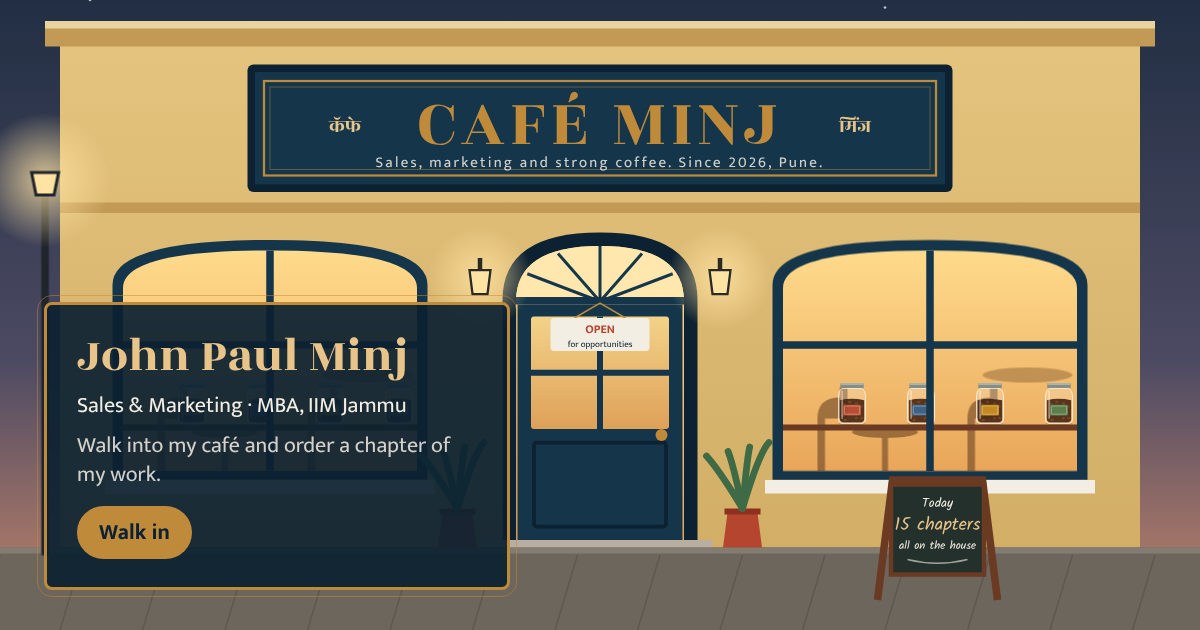
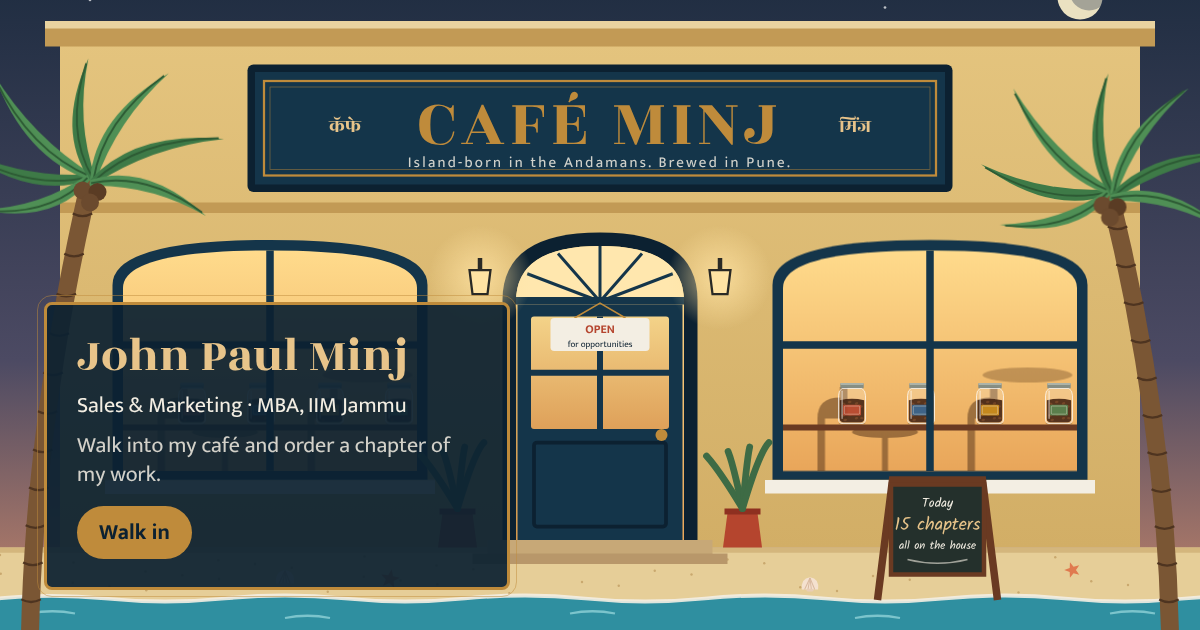
Andaman beachfront: sand, sea and surf, coconut palms, moon; sea window to Port Blair, conch and coconut on the counter
Claude-Session: https://claude.ai/code/session_01M7PDTuVyJJ1kuWZYfUFzFc

diff --git a/js/art.js b/js/art.js
@@ -118,6 +118,25 @@ window.ART = (function () {
       + line(name, 81, t1 + 700);
   }
 
+  /* ---------- island bits: palms, sea, shells ---------- */
+  function palm(x, dir, top = 330, scale = 1) {
+    const tx = x + dir * 80, ty = top;
+    const pt = t => [(1 - t) ** 2 * x + 2 * (1 - t) * t * (x + dir * 6) + t * t * tx, (1 - t) ** 2 * 905 + 2 * (1 - t) * t * 620 + t * t * ty];
+    const rings = Array.from({ length: 11 }, (_, i) => { const [px, py] = pt(0.08 + i * 0.085); return `<path d="M${px - 13},${py} q13,7 26,0" stroke="#4E3420" stroke-width="3" fill="none"/>`; }).join("");
+    const frond = (a, len, col) => `<g transform="translate(${tx},${ty}) rotate(${a}) scale(${scale})">
+        <path d="M0,0 Q${len * .45},-34 ${len},26 Q${len * .5},-6 0,8 Z" fill="${col}"/>
+        <path d="M2,4 Q${len * .45},-22 ${len - 6},22" stroke="#2D5A34" stroke-width="2.5" fill="none"/></g>`;
+    return `<g class="palm">
+      <path d="M${x},905 Q${x + dir * 6},620 ${tx},${ty}" stroke="#7A5634" stroke-width="24" fill="none" stroke-linecap="round"/>${rings}
+      ${[[-175, 175, "#3E7A47"], [-140, 190, "#4F8F55"], [-100, 160, "#3E7A47"], [-62, 175, "#4F8F55"], [-25, 185, "#3E7A47"], [8, 160, "#4F8F55"], [-205, 150, "#4F8F55"]]
+        .map(([a, l, c]) => frond(a, l, c)).join("")}
+      <circle cx="${tx - 10}" cy="${ty + 14}" r="12" fill="#6B4A2E"/><circle cx="${tx + 10}" cy="${ty + 16}" r="12" fill="#5A3C24"/><circle cx="${tx}" cy="${ty + 30}" r="12" fill="#6B4A2E"/>
+    </g>`;
+  }
+  const starfish = (x, y, r = 12, rot = 0) => `<path transform="translate(${x},${y}) rotate(${rot})" d="${Array.from({ length: 10 }, (_, i) => {
+    const a = (i * 36 - 90) * Math.PI / 180, rr = i % 2 ? r * .42 : r; return `${i ? "L" : "M"}${(Math.cos(a) * rr).toFixed(1)},${(Math.sin(a) * rr).toFixed(1)}`; }).join(" ")}Z" fill="#E07A4F"/>`;
+  const shell = (x, y, s = 1) => `<g transform="translate(${x},${y}) scale(${s})"><path d="M-12,0 Q-14,-16 0,-18 Q14,-16 12,0 Z" fill="#F4E1CF"/>${[-8, -3, 2, 7].map(dx => `<path d="M0,-17 L${dx},0" stroke="#D9B9A0" stroke-width="1.5"/>`).join("")}<rect x="-5" y="-1" width="10" height="4" rx="2" fill="#E8CDB7"/></g>`;
+
   function item(art, opts = {}) {
     return (items[art] || items.espresso)(opts);
   }
@@ -222,6 +241,7 @@ window.ART = (function () {
         <linearGradient id="wall" x1="0" y1="0" x2="0" y2="1"><stop offset="0" stop-color="#9DC2AE"/><stop offset="1" stop-color="#B4D3C1"/></linearGradient>
         <linearGradient id="marble" x1="0" y1="0" x2="1" y2="0"><stop offset="0" stop-color="#EEEAE2"/><stop offset=".5" stop-color="#F7F4EE"/><stop offset="1" stop-color="#E6E1D7"/></linearGradient>
         <linearGradient id="chrome" x1="0" y1="0" x2="1" y2="0"><stop offset="0" stop-color="#8E979C"/><stop offset=".35" stop-color="#E8ECEE"/><stop offset=".6" stop-color="#B9C1C5"/><stop offset="1" stop-color="#7C858A"/></linearGradient>
+        <linearGradient id="dusk" x1="0" y1="0" x2="0" y2="1"><stop offset="0" stop-color="#F7C9A0"/><stop offset="1" stop-color="#F0956F"/></linearGradient>
         <pattern id="checker" width="80" height="80" patternUnits="userSpaceOnUse"><rect width="80" height="80" fill="#EDE8DD"/><rect width="40" height="40" fill="#1B2A36"/><rect x="40" y="40" width="40" height="40" fill="#1B2A36"/></pattern>
       </defs>
 
@@ -274,6 +294,27 @@ window.ART = (function () {
           <text x="1270" y="${210 + i * 34}" text-anchor="end" font-family="Mukta, sans-serif" font-size="15" fill="${C.goldSoft}">0.00</text></g>`).join("")}
       </g>
 
+      <!-- window onto the Andaman sea -->
+      <g id="sea-window">
+        <clipPath id="seaclip"><path d="M1364,346 L1364,196 Q1364,136 1445,136 Q1526,136 1526,196 L1526,346 Z"/></clipPath>
+        <path d="M1350,358 L1350,192 Q1350,120 1445,120 Q1540,120 1540,192 L1540,358 Z" fill="${C.teak}"/>
+        <g clip-path="url(#seaclip)">
+          <rect x="1360" y="130" width="170" height="220" fill="url(#dusk)"/>
+          <circle cx="1478" cy="262" r="24" fill="#FFE2A0"/>
+          <rect x="1360" y="262" width="170" height="90" fill="#2F8FA0"/>
+          <path d="M1458,272 l40,0 M1466,284 l24,0 M1472,296 l12,0" stroke="#FFE2A0" stroke-width="3" opacity=".8"/>
+          <path d="M1360,300 q20,-6 40,0 t40,0 t40,0 t40,0 t40,0" stroke="#7CC4CC" stroke-width="2" fill="none" opacity=".7"/>
+          <path d="M1400,258 l26,0 l-5,7 l-17,0 Z M1412,258 l0,-22 l11,20 Z" fill="#1B2A36"/>
+          <path d="M1370,350 Q1378,260 1408,214" stroke="#1B2A36" stroke-width="7" fill="none"/>
+          ${[-60, -20, 15, 160, 200].map(a => `<path transform="translate(1408,214) rotate(${a})" d="M0,0 Q30,-12 58,10 Q30,-2 0,4 Z" fill="#1B2A36"/>`).join("")}
+        </g>
+        <path d="M1445,136 L1445,346 M1364,262 L1526,262" stroke="${C.teak}" stroke-width="7"/>
+        <rect x="1340" y="352" width="210" height="10" rx="3" fill="${C.ivory}"/>
+        ${shell(1372, 352, .7)}${starfish(1520, 344, 9, 14)}
+        <rect x="1366" y="370" width="158" height="26" rx="4" fill="${C.gold}"/>
+        <text x="1445" y="389" text-anchor="middle" font-family="Mukta, sans-serif" font-weight="700" font-size="14" fill="${C.bottleInk}">Port Blair, Andamans</text>
+      </g>
+
       <!-- the barista (behind the counter) -->
       ${barista(initials, person.baristaImage)}
 
@@ -285,6 +326,19 @@ window.ART = (function () {
       <rect x="0" y="590" width="1600" height="6" fill="#000" opacity=".25"/>
       <rect x="0" y="740" width="1600" height="60" fill="url(#checker)"/>
       <rect x="0" y="752" width="1600" height="7" rx="3" fill="${C.gold}"/>
+
+      <!-- island things on the counter: a conch and a coconut -->
+      <g transform="translate(80,560)">
+        <path d="M-34,0 Q-44,-22 -20,-34 Q6,-44 28,-30 Q40,-20 34,-6 Q30,2 18,0 Z" fill="#F2D6C4"/>
+        <path d="M-20,-34 l-6,-12 M-4,-40 l0,-13 M12,-38 l6,-11" stroke="#E6BFA8" stroke-width="5" stroke-linecap="round"/>
+        <path d="M-2,-4 Q14,-22 30,-12 Q24,-2 14,0 Z" fill="#E59A8A"/>
+        <path d="M-30,-6 Q-16,-20 -2,-14" stroke="#D9B39C" stroke-width="2" fill="none"/>
+      </g>
+      <g transform="translate(140,560)">
+        <ellipse cx="0" cy="-18" rx="22" ry="20" fill="#6B4A2E"/><ellipse cx="0" cy="-34" rx="17" ry="5" fill="#F3EEE3"/>
+        <path d="M-7,-36 L6,-66" stroke="${C.chili}" stroke-width="4" stroke-linecap="round"/><path d="M6,-66 l9,-4" stroke="${C.chili}" stroke-width="4" stroke-linecap="round"/>
+        <path d="M-12,-24 q4,8 0,16" stroke="#4E3420" stroke-width="2" fill="none"/>
+      </g>
 
       <!-- pastry case -->
       <g id="pastry-case" class="hot" data-act="shelf:pastry-case">
@@ -360,6 +414,7 @@ window.ART = (function () {
         <radialGradient id="lampHalo"><stop offset="0" stop-color="#FFE3A3" stop-opacity=".8"/><stop offset="1" stop-color="#FFE3A3" stop-opacity="0"/></radialGradient>
       </defs>
       <rect width="1600" height="900" fill="url(#sky)"/>
+      <circle cx="1440" cy="56" r="30" fill="#F6EBC8" opacity=".95"/><circle cx="1452" cy="48" r="26" fill="#22324A" opacity=".35"/>
       ${[[120, 60], [300, 120], [520, 40], [1180, 70], [1350, 30], [1500, 110], [860, 24]].map(([x, y]) => `<circle cx="${x}" cy="${y}" r="1.8" fill="#fff" opacity=".7"/>`).join("")}
       <!-- building -->
       <rect x="80" y="110" width="1440" height="680" fill="url(#lime)"/>
@@ -374,7 +429,7 @@ window.ART = (function () {
         <text x="800" y="252" text-anchor="middle" font-family="Rozha One, serif" font-size="92" letter-spacing="6" fill="${C.gold}">CAFÉ MINJ</text>
         <text x="460" y="236" text-anchor="middle" font-family="Rozha One, serif" font-size="26" fill="${C.goldSoft}">कॅफे</text>
         <text x="1140" y="236" text-anchor="middle" font-family="Rozha One, serif" font-size="26" fill="${C.goldSoft}">मिंज</text>
-        <text x="800" y="282" text-anchor="middle" font-family="Mukta, sans-serif" font-size="20" letter-spacing="3" fill="${C.ivory}" opacity=".85">Sales, marketing and strong coffee. Since 2026, Pune.</text>
+        <text x="800" y="282" text-anchor="middle" font-family="Mukta, sans-serif" font-size="20" letter-spacing="3" fill="${C.ivory}" opacity=".85">Island-born in the Andamans. Brewed in Pune.</text>
       </g>
       ${win(150)}${win(1030)}
       <!-- door -->
@@ -400,11 +455,15 @@ window.ART = (function () {
       </g>
       <!-- lamps -->
       ${[640, 960].map(x => `<circle cx="${x}" cy="430" r="70" fill="url(#lampHalo)" class="halo"/><rect x="${x - 3}" y="404" width="6" height="16" fill="#2A2A26"/><path d="M${x - 14},420 L${x + 14},420 L${x + 10},452 L${x - 10},452 Z" fill="#FFE3A3" stroke="#2A2A26" stroke-width="3"/>`).join("")}
-      <!-- steps and pavement -->
-      <rect x="650" y="780" width="300" height="20" fill="#B9AFA0"/><rect x="630" y="798" width="340" height="16" fill="#A79D8E"/>
-      <rect x="0" y="790" width="1600" height="110" fill="#6C665D"/>
-      <rect x="0" y="790" width="1600" height="8" fill="#837C71"/>
-      ${Array.from({ length: 16 }, (_, i) => `<path d="M${i * 110},800 L${i * 110 - 30},900" stroke="#5E5850" stroke-width="2"/>`).join("")}
+      <!-- the beach in front of the café, and the sea -->
+      <rect x="0" y="790" width="1600" height="110" fill="#E6CE98"/>
+      <rect x="0" y="790" width="1600" height="7" fill="#D4B67D"/>
+      ${Array.from({ length: 40 }, (_, i) => `<circle cx="${(i * 97) % 1600}" cy="${800 + (i * 37) % 52}" r="1.6" fill="#C9A86E"/>`).join("")}
+      <rect x="650" y="780" width="300" height="20" fill="#C7A877"/><rect x="630" y="798" width="340" height="14" fill="#B8976A"/>
+      ${starfish(520, 832, 13, 10)}${starfish(1430, 820, 11, -18)}${shell(380, 838, 1)}${shell(1080, 846, .9)}
+      <path d="M-20,860 Q60,850 140,858 T300,858 T460,858 T620,858 T780,858 T940,858 T1100,858 T1260,858 T1420,858 T1580,858 T1740,858 L1740,900 L-20,900 Z" fill="#2F8FA0"/>
+      <g class="surf"><path d="M-20,860 Q60,850 140,858 T300,858 T460,858 T620,858 T780,858 T940,858 T1100,858 T1260,858 T1420,858 T1580,858 T1740,858" stroke="#F3EEE3" stroke-width="5" fill="none" stroke-linecap="round" opacity=".9"/>
+        <path d="M40,878 q30,-6 60,0 M380,884 q30,-6 60,0 M760,878 q30,-6 60,0 M1140,884 q30,-6 60,0 M1480,878 q30,-6 60,0" stroke="#7CC4CC" stroke-width="3" fill="none"/></g>
       <!-- plants -->
       ${[610, 990].map(x => `<g transform="translate(${x},790)"><path d="M-26,0 L26,0 L20,-46 L-20,-46 Z" fill="${C.chili}"/><rect x="-24" y="-52" width="48" height="8" fill="#8E3020"/>
         ${[-30, -12, 6, 22].map((a, i) => `<path d="M0,-52 q${a},-${50 + i * 8} ${a * 1.6},-${70 + i * 6}" stroke="#3E6B45" stroke-width="9" fill="none" stroke-linecap="round"/>`).join("")}</g>`).join("")}
@@ -417,9 +476,8 @@ window.ART = (function () {
         <text x="0" y="92" text-anchor="middle" font-family="Kalam, cursive" font-size="15" fill="${C.ivory}">all on the house</text>
         <path d="M-40,106 q40,10 80,0" stroke="${C.ivory}" stroke-width="2" fill="none" opacity=".6"/>
       </g>
-      <!-- street lamp -->
-      <g transform="translate(60,0)"><rect x="-5" y="300" width="10" height="500" fill="#20252B"/>
-        <circle cx="0" cy="300" r="90" fill="url(#lampHalo)" class="halo"/><path d="M-18,290 L18,290 L12,320 L-12,320 Z" fill="#FFE3A3" stroke="#20252B" stroke-width="4"/></g>
+      <!-- coconut palms framing the café -->
+      ${palm(40, 1, 300)}${palm(1560, -1, 320)}
     </svg>`;
   }
 

diff --git a/css/style.css b/css/style.css
@@ -86,6 +86,8 @@ button { font: inherit; }
 #door { cursor: pointer; transform-box: fill-box; transform-origin: 0% 50%; transition: filter .2s; }
 #door:hover { filter: brightness(1.12); }
 .halo { animation: flicker 5s infinite; }
+.surf { animation: surf 4.5s ease-in-out infinite alternate; }
+@keyframes surf { to { transform: translate(-36px, 3px); } }
 @keyframes flicker { 0%, 100% { opacity: 1 } 48% { opacity: 1 } 50% { opacity: .82 } 52% { opacity: 1 } }
 
 .flash { position: absolute; inset: 0; background: #FFE3A3; opacity: 0; pointer-events: none; }
@@ -398,7 +400,7 @@ dialog[open] .paper { animation: print 1.1s var(--ease) both; }
 
 /* ============ RESPONSIVE ============ */
 @media (max-width: 699px) {
-  .street-hero { display: flex; flex-direction: column; justify-content: flex-end; height: auto; min-height: 100dvh; background: linear-gradient(#1C2B3F 0 30%, #6C665D 30%); }
+  .street-hero { display: flex; flex-direction: column; justify-content: flex-end; height: auto; min-height: 100dvh; background: linear-gradient(#1C2B3F 0 30%, #2F8FA0 30%); }
   .street-art { position: relative; inset: auto; aspect-ratio: 1000 / 820; transform-origin: 50% 66%; }
   .street-intro { position: relative; left: auto; bottom: auto; width: auto; margin: 0 12px 16px; padding: 18px 18px 20px; }
 }

diff --git a/js/counter.js b/js/counter.js
@@ -64,7 +64,7 @@
     if (!first) return say("What else can I tempt you with?");
     if (state.returning && state.name)
       return say(`${hi}, ${state.name}. Back again? I had a feeling you would be. Your loyalty card stands at ${state.stamps.length} of ${D.items.length}. What shall I make appear today?`);
-    return say(`${hi}, and welcome. You've wandered into Café Minj, where every cup comes with a plot twist. I'm ${P.firstName}: barista by night, management trainee in sales and marketing by day. Everything on the menu is a chapter of my work, and all of it is on the house. Choose well.`);
+    return say(`${hi}, and welcome. You've wandered into Café Minj, where every cup comes with a plot twist. I'm ${P.firstName}: born on the Andaman Islands, barista by night, management trainee in sales and marketing by day. Everything on the menu is a chapter of my work, and all of it is on the house. Choose well.`);
   }
   function openShelf(id) {
     const s = shelf(id);

diff --git a/js/data.js b/js/data.js
@@ -280,4 +280,5 @@ window.CAFE = {
     { short: "Don't ask about printers", full: "Do not ask the barista to fix your printer. He studied electronics, not miracles." },
     { short: "Wifi: breweddaily", full: "Wifi password: breweddaily" },
     { short: "Tip with a connection", full: "Tip your barista with a LinkedIn connection." },
+    { short: "Island time: off", full: "Island time does not apply to replies. Expect one within a day." },
   ],};
